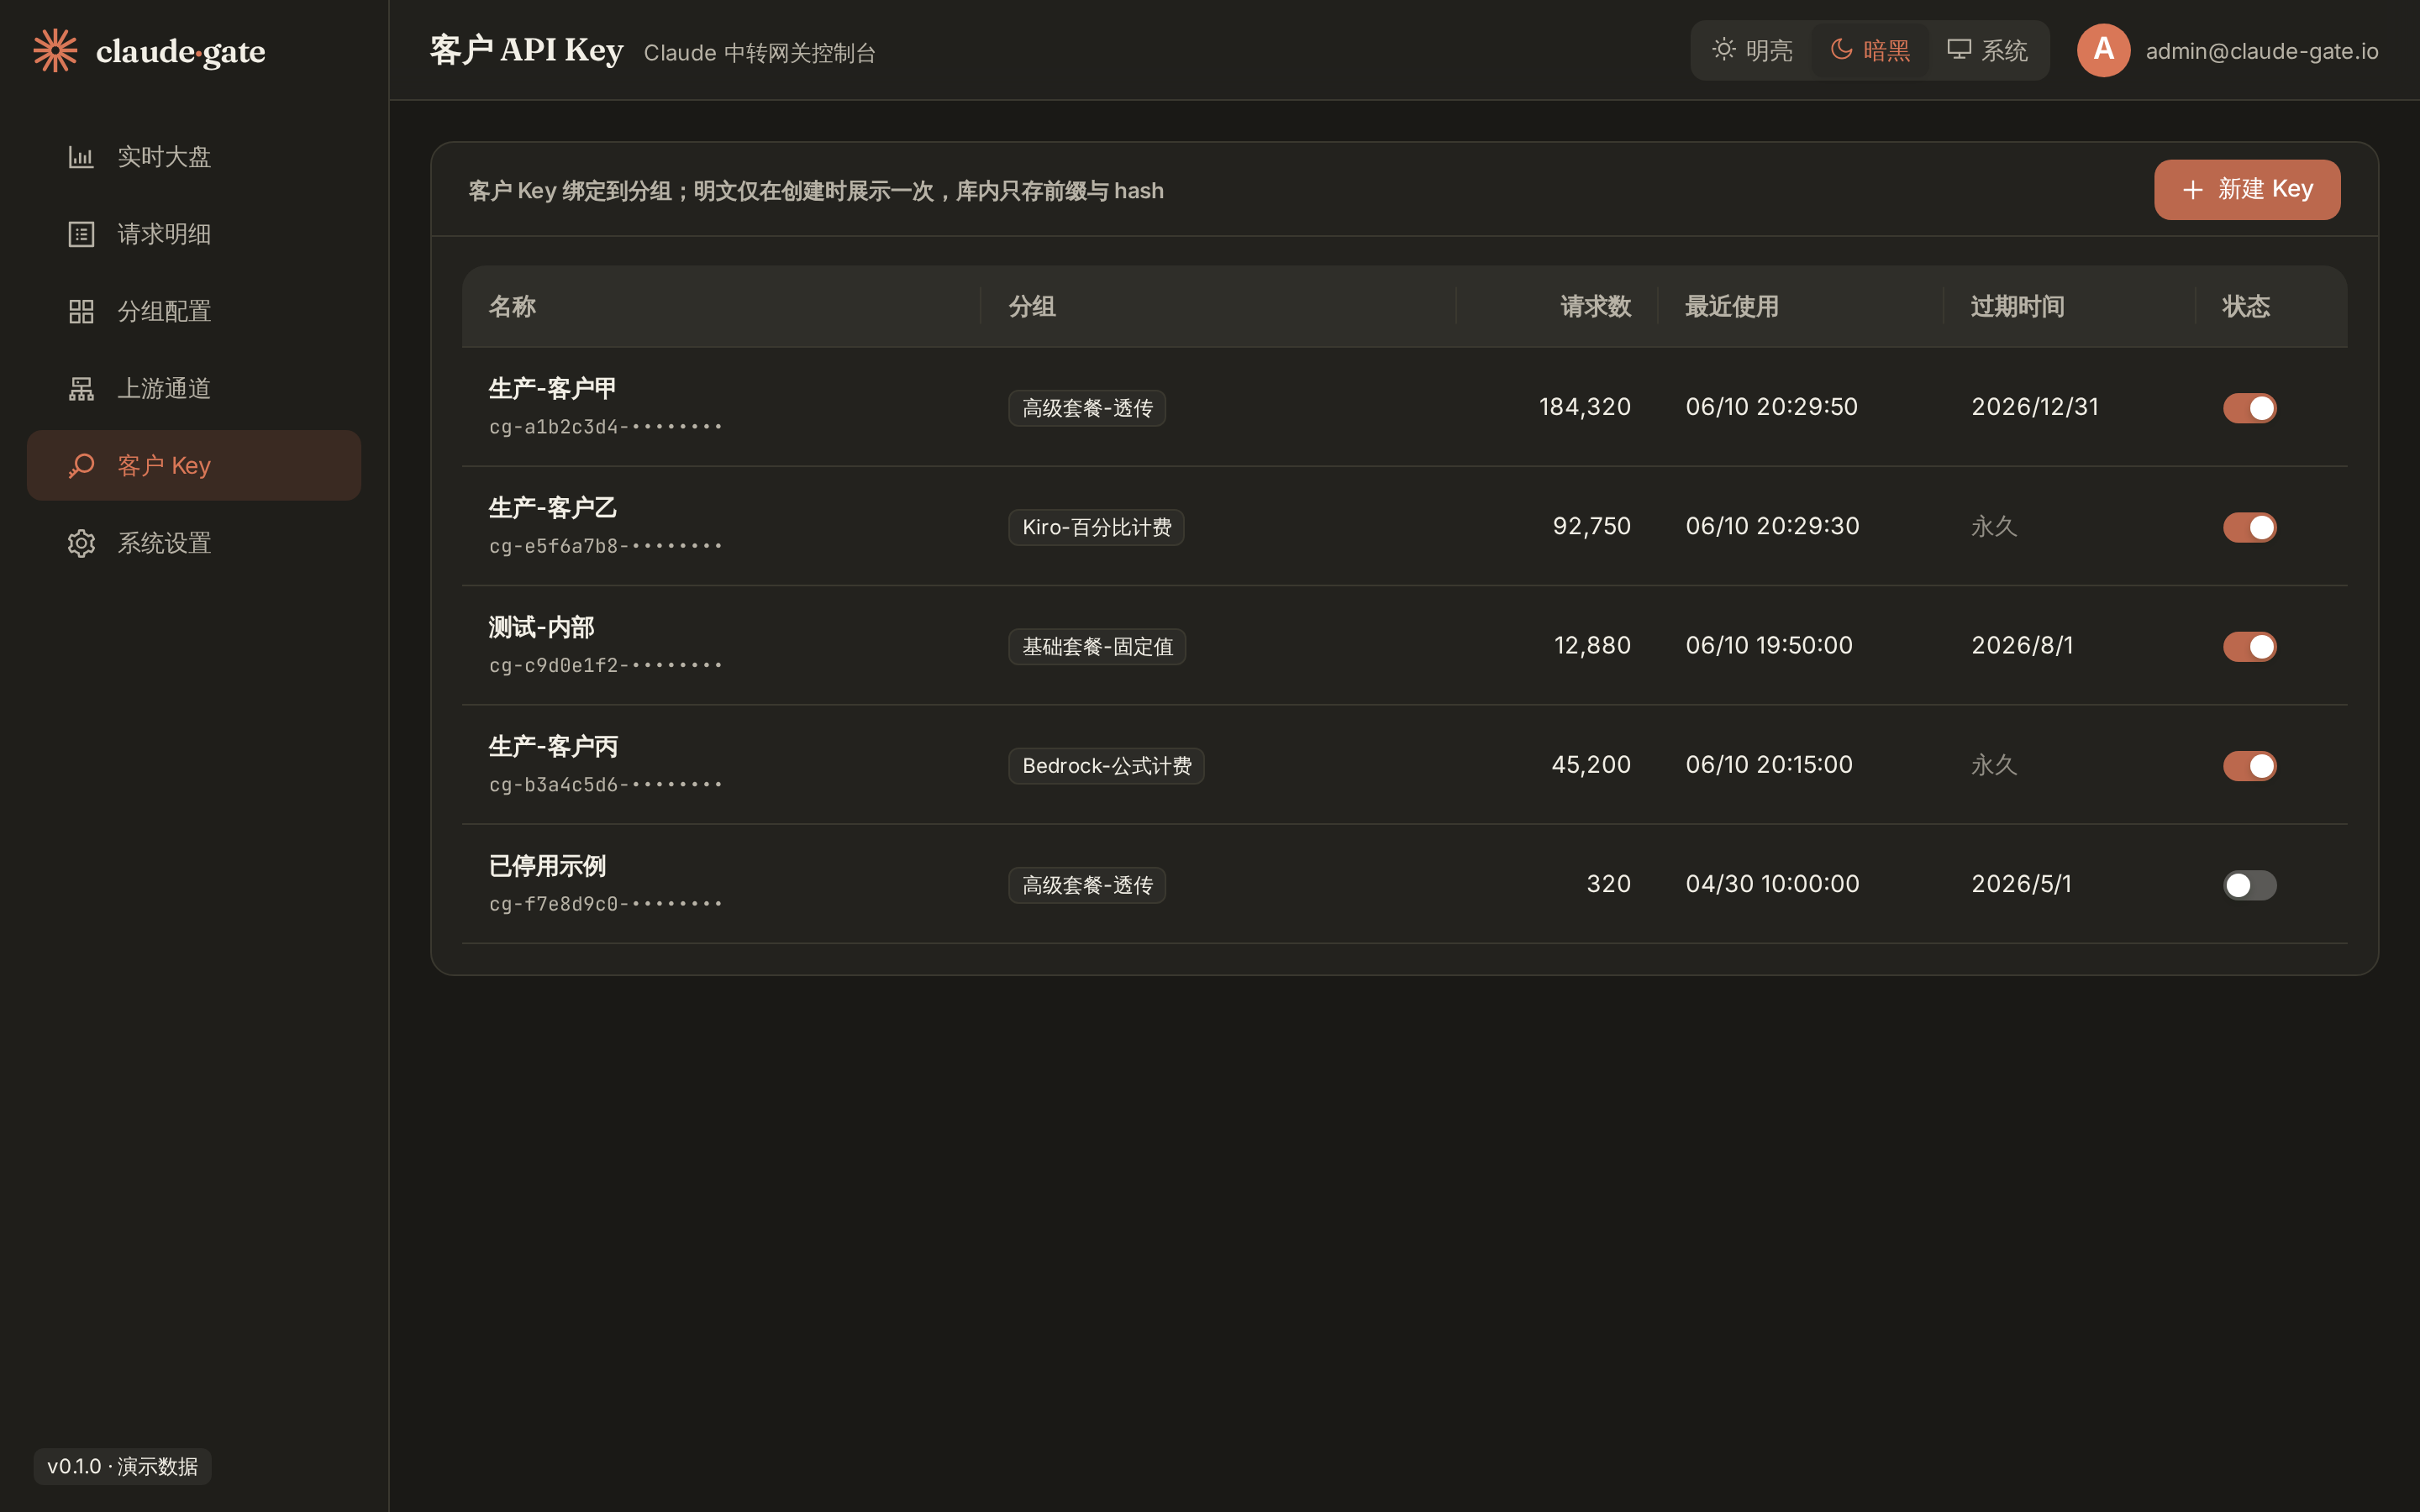
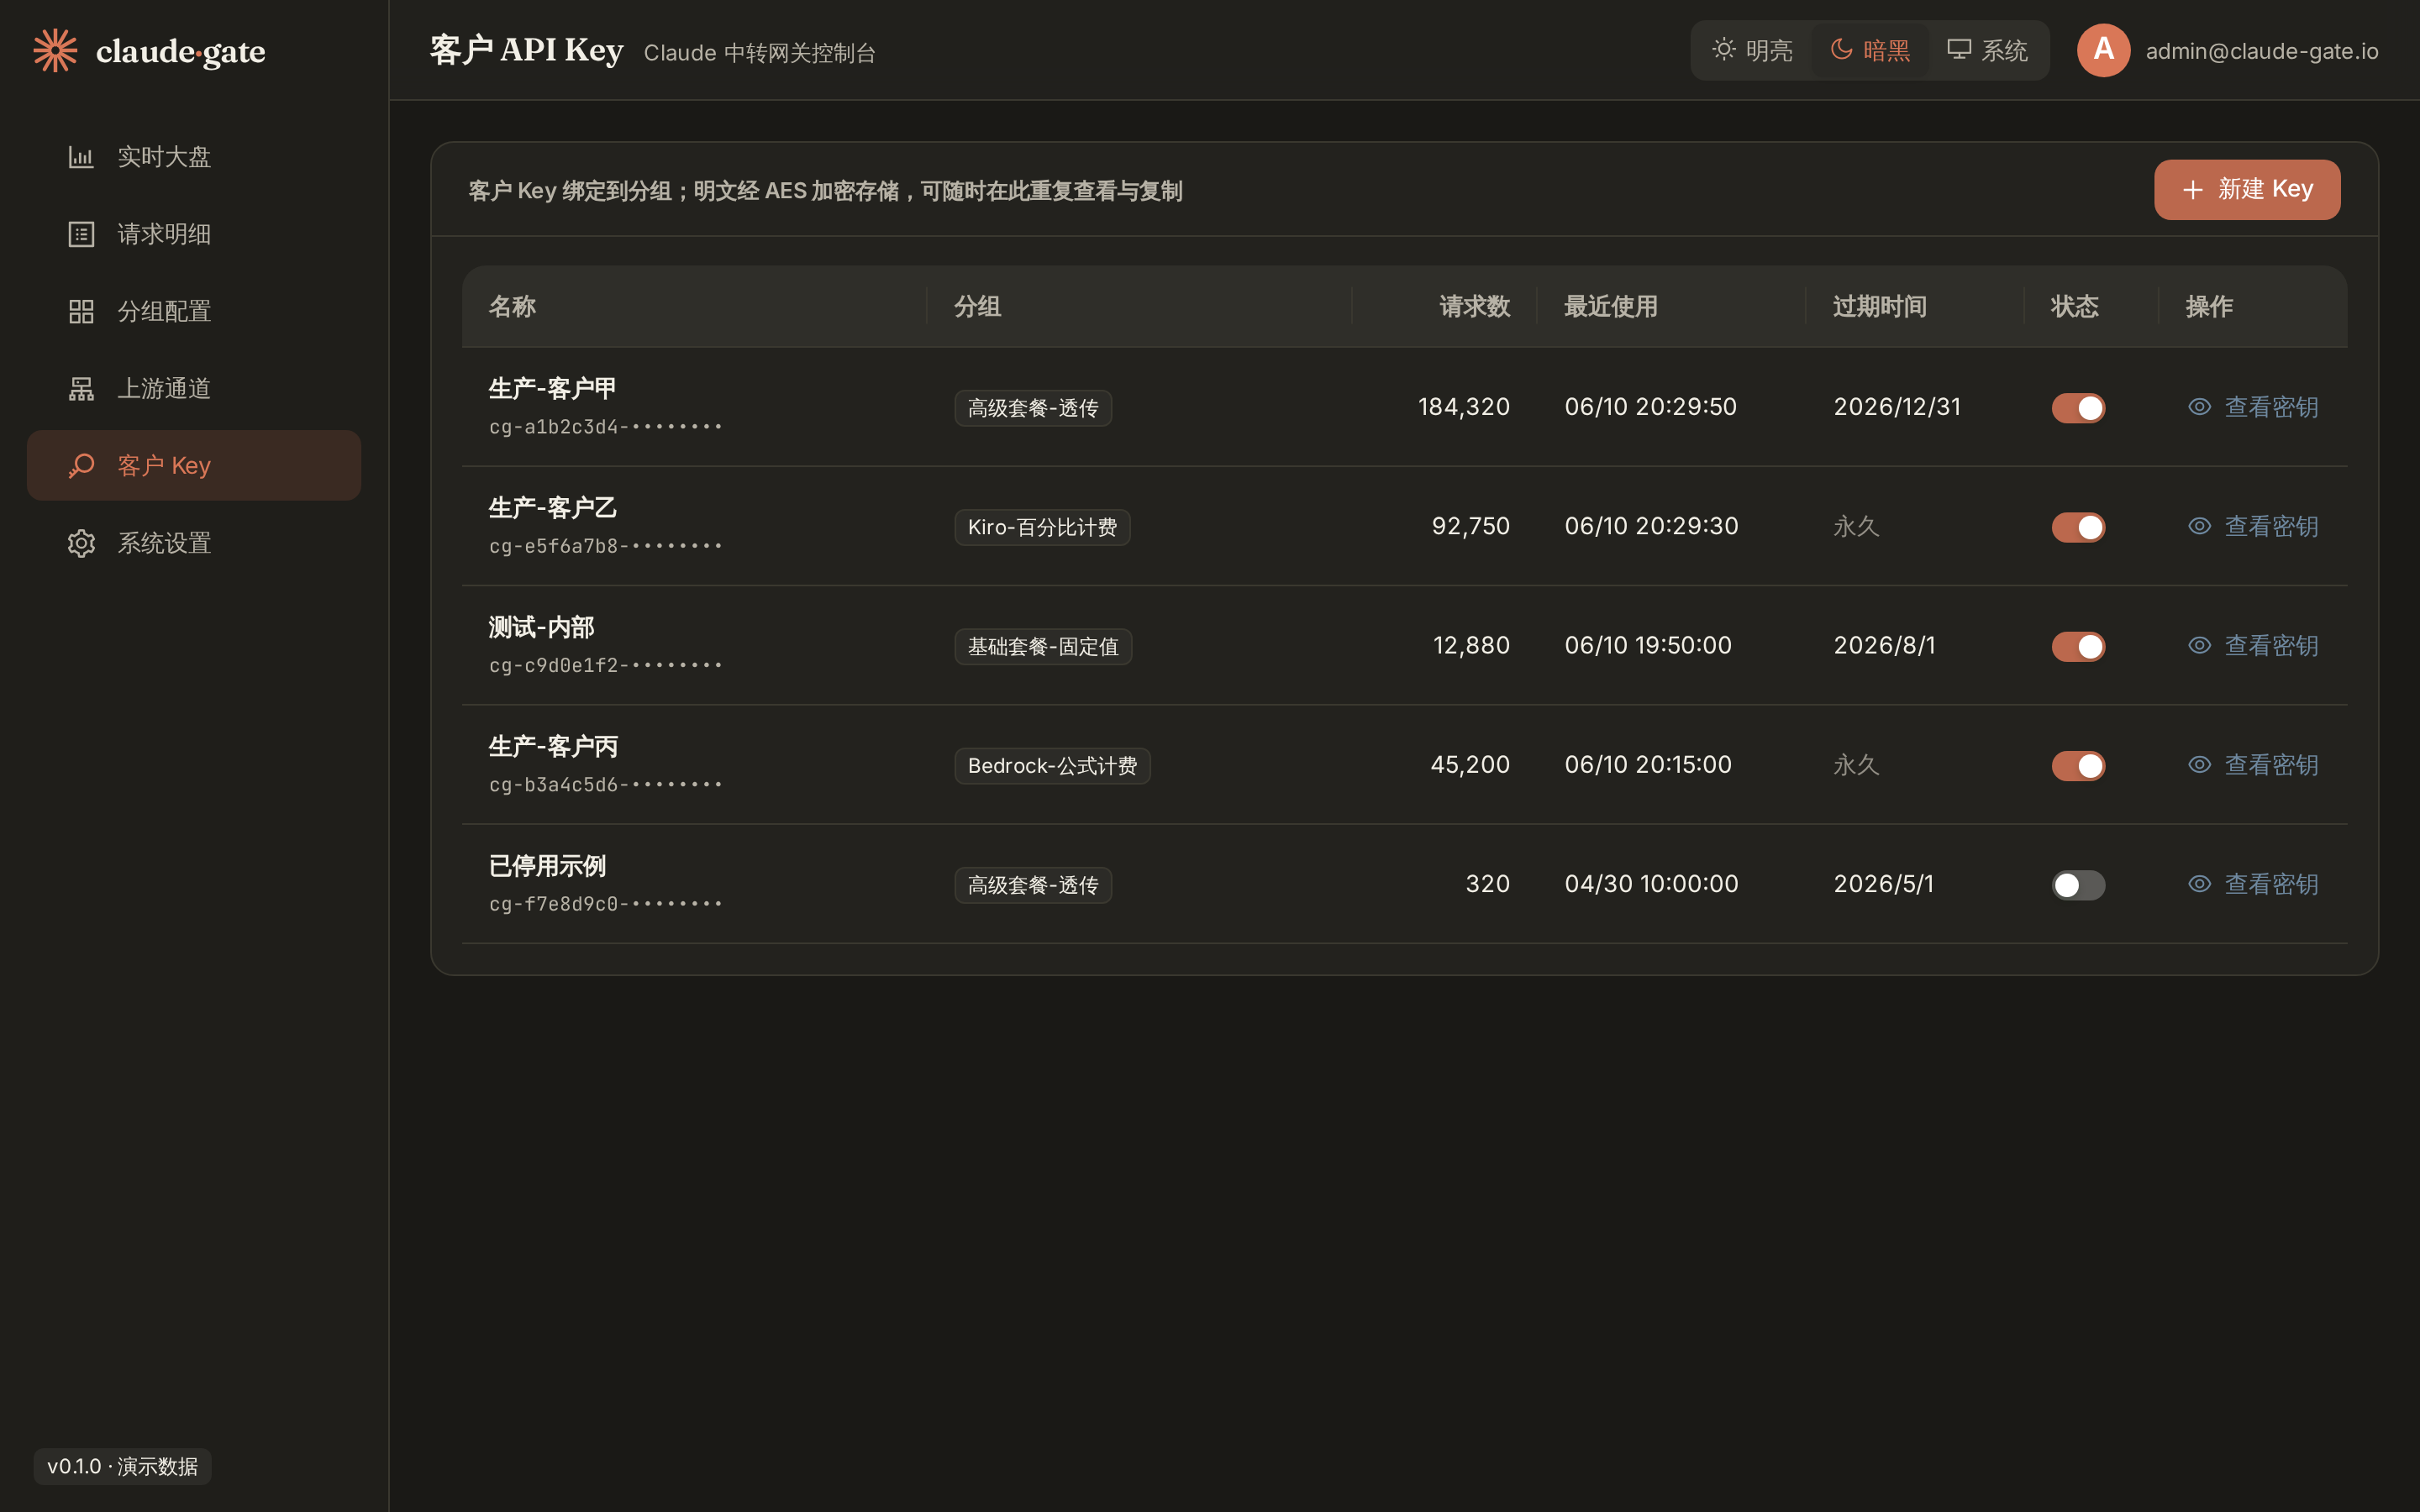
feat: 客户 API Key 支持重复查看（AES-256-GCM 可逆存储）
- auth/crypto.go：AES-256-GCM 加解密 + 单测（round-trip / 错误口令 / 篡改检测）
- domain.APIKey 增加 KeyEncrypted；新增迁移 0002_apikey_encrypted
- config 增加 EncryptionKey（CG_ENCRYPTION_KEY）
- 前端客户 Key 列表新增「查看密钥」操作，弹窗支持打码/显示切换 + 复制
- 热路径仍用 key_hash 校验，不解密、不影响代理性能
- docs/configuration.md 补充重复查看的安全取舍；更新截图

diff --git a/web/src/pages/ApiKeys.tsx b/web/src/pages/ApiKeys.tsx
@@ -1,7 +1,8 @@
-import { App, Button, Card, Form, Input, Modal, Select, Switch, Table, Tag, Typography } from 'antd'
-import { CopyOutlined, KeyOutlined, PlusOutlined } from '@ant-design/icons'
+import { App, Button, Card, Form, Input, Modal, Select, Space, Switch, Table, Tag, Typography } from 'antd'
+import { CopyOutlined, EyeInvisibleOutlined, EyeOutlined, KeyOutlined, PlusOutlined } from '@ant-design/icons'
 import { useState } from 'react'
 import { useApiKeys, useGroups } from '../api/queries'
+import { api } from '../api/mock'
 import type { ApiKey } from '../api/types'
 import { fmtDateTime, fmtInt } from '../utils/format'
 
@@ -10,12 +11,38 @@ function genDemoKey() {
   return `cg-${hex(8)}-${hex(48)}`
 }
 
+/** 把完整 Key 打码：保留 cg- 与前缀，其余以圆点替代。 */
+function maskKey(prefix: string) {
+  return `cg-${prefix}-${'•'.repeat(24)}`
+}
+
 export function ApiKeys() {
   const { message } = App.useApp()
   const apiKeys = useApiKeys()
   const groups = useGroups()
   const [open, setOpen] = useState(false)
   const [created, setCreated] = useState<string | null>(null)
+
+  // 重复查看密钥的状态
+  const [revealing, setRevealing] = useState<ApiKey | null>(null)
+  const [revealed, setRevealed] = useState<string | null>(null)
+  const [showSecret, setShowSecret] = useState(false)
+  const [revealLoading, setRevealLoading] = useState(false)
+
+  const openReveal = async (k: ApiKey) => {
+    setRevealing(k)
+    setRevealed(null)
+    setShowSecret(false)
+    setRevealLoading(true)
+    try {
+      const full = await api.revealApiKey(k.id)
+      setRevealed(full)
+    } catch {
+      message.error('获取密钥失败')
+    } finally {
+      setRevealLoading(false)
+    }
+  }
 
   const columns = [
     {
@@ -29,25 +56,38 @@ export function ApiKeys() {
       ),
     },
     { title: '分组', dataIndex: 'group_name', render: (v: string) => <Tag>{v}</Tag> },
-    { title: '请求数', dataIndex: 'request_count', width: 120, align: 'right' as const, render: (v: number) => fmtInt(v) },
-    { title: '最近使用', dataIndex: 'last_used_at', width: 170, render: (v?: string | null) => (v ? fmtDateTime(v) : '—') },
-    { title: '过期时间', dataIndex: 'expires_at', width: 150, render: (v?: string | null) => (v ? new Date(v).toLocaleDateString('zh-CN') : <span style={{ color: 'var(--cg-text-tertiary,#928e85)' }}>永久</span>) },
-    { title: '状态', dataIndex: 'enabled', width: 90, render: (v: boolean) => <Switch checked={v} size="small" /> },
+    { title: '请求数', dataIndex: 'request_count', width: 110, align: 'right' as const, render: (v: number) => fmtInt(v) },
+    { title: '最近使用', dataIndex: 'last_used_at', width: 160, render: (v?: string | null) => (v ? fmtDateTime(v) : '—') },
+    { title: '过期时间', dataIndex: 'expires_at', width: 130, render: (v?: string | null) => (v ? new Date(v).toLocaleDateString('zh-CN') : <span style={{ color: 'var(--cg-text-tertiary,#928e85)' }}>永久</span>) },
+    { title: '状态', dataIndex: 'enabled', width: 80, render: (v: boolean) => <Switch checked={v} size="small" /> },
+    {
+      title: '操作',
+      key: 'action',
+      width: 100,
+      render: (_: unknown, k: ApiKey) => (
+        <Button type="link" size="small" icon={<EyeOutlined />} style={{ padding: 0 }} onClick={() => openReveal(k)}>
+          查看密钥
+        </Button>
+      ),
+    },
   ]
 
   const handleCreate = () => {
     setCreated(genDemoKey())
   }
 
+  const displayKey = revealed ? (showSecret ? revealed : revealing ? maskKey(revealing.key_prefix) : '') : ''
+
   return (
     <Card
       className="cg-soft-card"
       styles={{ body: { padding: 18 } }}
-      title={<span style={{ color: 'var(--cg-text-secondary)', fontSize: 13 }}>客户 Key 绑定到分组；明文仅在创建时展示一次，库内只存前缀与 hash</span>}
+      title={<span style={{ color: 'var(--cg-text-secondary)', fontSize: 13 }}>客户 Key 绑定到分组；明文经 AES 加密存储，可随时在此重复查看与复制</span>}
       extra={<Button type="primary" icon={<PlusOutlined />} onClick={() => { setCreated(null); setOpen(true) }}>新建 Key</Button>}
     >
       <Table<ApiKey> rowKey="id" loading={apiKeys.isLoading} columns={columns} dataSource={apiKeys.data ?? []} pagination={false} />
 
+      {/* 新建 Key */}
       <Modal
         title="新建客户 API Key"
         open={open}
@@ -66,13 +106,44 @@ export function ApiKeys() {
           </Form>
         ) : (
           <div>
-            <Typography.Paragraph type="warning"><KeyOutlined /> 请立即复制并妥善保存，此明文只展示这一次：</Typography.Paragraph>
-            <Input.Group compact style={{ display: 'flex' }}>
+            <Typography.Paragraph><KeyOutlined /> 已生成新密钥，可立即复制；之后也可在列表「查看密钥」重复查看：</Typography.Paragraph>
+            <Space.Compact style={{ display: 'flex' }}>
               <Input className="cg-mono" readOnly value={created} />
               <Button icon={<CopyOutlined />} onClick={() => { navigator.clipboard?.writeText(created); message.success('已复制') }}>复制</Button>
-            </Input.Group>
+            </Space.Compact>
           </div>
         )}
+      </Modal>
+
+      {/* 重复查看密钥 */}
+      <Modal
+        title={<Space><KeyOutlined />查看密钥 · {revealing?.name}</Space>}
+        open={!!revealing}
+        onCancel={() => setRevealing(null)}
+        footer={[<Button key="close" onClick={() => setRevealing(null)}>关闭</Button>]}
+        destroyOnClose
+      >
+        <Typography.Paragraph style={{ color: 'var(--cg-text-secondary)', fontSize: 13 }}>
+          完整明文由后台 AES-256-GCM 解密获得，可随时重复查看。请勿在不安全场合展示。
+        </Typography.Paragraph>
+        <Space.Compact style={{ display: 'flex' }}>
+          <Input className="cg-mono" readOnly value={displayKey} placeholder={revealLoading ? '解密中…' : ''} />
+          <Button
+            icon={showSecret ? <EyeInvisibleOutlined /> : <EyeOutlined />}
+            onClick={() => setShowSecret((s) => !s)}
+            disabled={!revealed}
+          >
+            {showSecret ? '隐藏' : '显示'}
+          </Button>
+          <Button
+            type="primary"
+            icon={<CopyOutlined />}
+            disabled={!revealed}
+            onClick={() => { if (revealed) { navigator.clipboard?.writeText(revealed); message.success('已复制完整密钥') } }}
+          >
+            复制
+          </Button>
+        </Space.Compact>
       </Modal>
     </Card>
   )

diff --git a/web/src/api/mock.ts b/web/src/api/mock.ts
@@ -326,6 +326,17 @@ export function buildTimeseries(w: TimeWindow, metric: string): TimeseriesPoint[
   return out
 }
 
+// 演示用：从前缀确定性派生完整 Key 明文（真实环境为后台 AES 解密后的明文）。
+function fullKeyFor(prefix: string): string {
+  let h = 2166136261
+  const out: string[] = []
+  for (let i = 0; i < 48; i++) {
+    h = (Math.imul(h ^ (prefix.charCodeAt(i % prefix.length) + i * 7), 16777619)) >>> 0
+    out.push('0123456789abcdef'[h & 15])
+  }
+  return `cg-${prefix}-${out.join('')}`
+}
+
 export const api = {
   async overview(): Promise<StatsOverview> {
     await delay()
@@ -374,6 +385,14 @@ export const api = {
   async apiKeys(): Promise<ApiKey[]> {
     await delay()
     return apiKeys
+  },
+  // 重复查看客户 Key 明文（真实环境对应 GET /api/admin/api-keys/:id/reveal，
+  // 后台用 CG_ENCRYPTION_KEY 解密 key_encrypted，建议配合操作审计）。
+  async revealApiKey(id: number): Promise<string> {
+    await delay(200)
+    const k = apiKeys.find((x) => x.id === id)
+    if (!k) throw new Error('Key 不存在')
+    return fullKeyFor(k.key_prefix)
   },
   async modelMappings(): Promise<ModelMapping[]> {
     await delay(160)

diff --git a/internal/auth/crypto.go b/internal/auth/crypto.go
@@ -1,0 +1,76 @@
+package auth
+
+import (
+	"crypto/aes"
+	"crypto/cipher"
+	"crypto/rand"
+	"crypto/sha256"
+	"encoding/base64"
+	"fmt"
+	"io"
+)
+
+// 本文件提供 AES-256-GCM 的对称加解密，用于把"需要重复查看"的密文
+// （客户 API Key 明文、上游凭证等）可逆地存库。
+//
+// 设计取舍：客户 API Key 默认只存 key_hash（不可逆），用于热路径校验；
+// 但中转站运营场景常需运营者事后重新查看/分发 Key，因此额外存一份
+// AES-256-GCM 加密的明文（key_encrypted），仅管理后台解密展示。
+// 这是面向中转站产品的有意取舍，加密密钥经 CG_ENCRYPTION_KEY 配置（见 docs）。
+
+// deriveKey 把任意口令派生为 32 字节 AES-256 密钥。
+func deriveKey(secret string) [32]byte {
+	return sha256.Sum256([]byte(secret))
+}
+
+// Encrypt 用口令对明文做 AES-256-GCM 加密，返回 base64(nonce|ciphertext)。
+func Encrypt(plaintext, secret string) (string, error) {
+	if secret == "" {
+		return "", fmt.Errorf("加密口令为空")
+	}
+	key := deriveKey(secret)
+	block, err := aes.NewCipher(key[:])
+	if err != nil {
+		return "", err
+	}
+	gcm, err := cipher.NewGCM(block)
+	if err != nil {
+		return "", err
+	}
+	nonce := make([]byte, gcm.NonceSize())
+	if _, err := io.ReadFull(rand.Reader, nonce); err != nil {
+		return "", err
+	}
+	// Seal 把密文追加在 nonce 之后，便于解密时切分
+	sealed := gcm.Seal(nonce, nonce, []byte(plaintext), nil)
+	return base64.StdEncoding.EncodeToString(sealed), nil
+}
+
+// Decrypt 解密 Encrypt 的输出，口令不匹配或密文被篡改时返回错误。
+func Decrypt(ciphertext, secret string) (string, error) {
+	if secret == "" {
+		return "", fmt.Errorf("加密口令为空")
+	}
+	raw, err := base64.StdEncoding.DecodeString(ciphertext)
+	if err != nil {
+		return "", fmt.Errorf("密文 base64 解码失败: %w", err)
+	}
+	key := deriveKey(secret)
+	block, err := aes.NewCipher(key[:])
+	if err != nil {
+		return "", err
+	}
+	gcm, err := cipher.NewGCM(block)
+	if err != nil {
+		return "", err
+	}
+	if len(raw) < gcm.NonceSize() {
+		return "", fmt.Errorf("密文长度不足")
+	}
+	nonce, body := raw[:gcm.NonceSize()], raw[gcm.NonceSize():]
+	plain, err := gcm.Open(nil, nonce, body, nil)
+	if err != nil {
+		return "", fmt.Errorf("解密失败（口令错误或密文被篡改）: %w", err)
+	}
+	return string(plain), nil
+}

diff --git a/internal/auth/crypto_test.go b/internal/auth/crypto_test.go
@@ -1,0 +1,67 @@
+package auth
+
+import "testing"
+
+func TestEncryptDecryptRoundTrip(t *testing.T) {
+	secret := "test-encryption-passphrase"
+	plain := "cg-a1b2c3d4-3f9ace0011223344556677889900aabbccddeeff"
+	ct, err := Encrypt(plain, secret)
+	if err != nil {
+		t.Fatal(err)
+	}
+	if ct == plain {
+		t.Fatal("密文不应等于明文")
+	}
+	got, err := Decrypt(ct, secret)
+	if err != nil {
+		t.Fatal(err)
+	}
+	if got != plain {
+		t.Fatalf("解密结果 = %q, 期望 %q", got, plain)
+	}
+}
+
+func TestEncryptNonceRandomized(t *testing.T) {
+	// 相同明文两次加密应得到不同密文（nonce 随机）
+	a, _ := Encrypt("same", "k")
+	b, _ := Encrypt("same", "k")
+	if a == b {
+		t.Fatal("两次加密应因随机 nonce 而不同")
+	}
+}
+
+func TestDecryptWrongKeyFails(t *testing.T) {
+	ct, _ := Encrypt("secret-value", "right-key")
+	if _, err := Decrypt(ct, "wrong-key"); err == nil {
+		t.Fatal("错误口令应解密失败")
+	}
+}
+
+func TestDecryptTamperFails(t *testing.T) {
+	ct, _ := Encrypt("secret-value", "k")
+	// 篡改最后一个字符
+	tampered := ct[:len(ct)-1]
+	if tampered[len(tampered)-1] == 'A' {
+		tampered += "B"
+	} else {
+		tampered += "A"
+	}
+	if _, err := Decrypt(tampered, "k"); err == nil {
+		t.Fatal("被篡改的密文应解密失败")
+	}
+}
+
+func TestEncryptEmptySecret(t *testing.T) {
+	if _, err := Encrypt("x", ""); err == nil {
+		t.Fatal("空口令应返回错误")
+	}
+	if _, err := Decrypt("x", ""); err == nil {
+		t.Fatal("空口令应返回错误")
+	}
+}
+
+func TestDecryptInvalidBase64(t *testing.T) {
+	if _, err := Decrypt("!!!not-base64!!!", "k"); err == nil {
+		t.Fatal("非法 base64 应返回错误")
+	}
+}

diff --git a/internal/domain/models.go b/internal/domain/models.go
@@ -99,16 +99,22 @@ type Group struct {
 	UpdatedAt         time.Time           `json:"updated_at"`
 }
 
-// APIKey 客户 API Key。明文仅在创建时返回一次，库中只存前缀与 hash。
+// APIKey 客户 API Key。
+//
+// 存两份密文：
+//   - KeyHash：不可逆 hash，用于热路径校验（见 auth.VerifySecret）；
+//   - KeyEncrypted：AES-256-GCM 可逆密文，仅供管理后台"重复查看"明文时解密
+//     （中转站运营常需事后重看/分发 Key，是面向该产品的有意取舍，见 internal/auth/crypto.go）。
 type APIKey struct {
-	ID        int64      `json:"id"`
-	KeyPrefix string     `json:"key_prefix"`
-	KeyHash   string     `json:"-"`
-	Name      string     `json:"name"`
-	GroupID   int64      `json:"group_id"`
-	Enabled   bool       `json:"enabled"`
-	ExpiresAt *time.Time `json:"expires_at,omitempty"`
-	CreatedAt time.Time  `json:"created_at"`
+	ID           int64      `json:"id"`
+	KeyPrefix    string     `json:"key_prefix"`
+	KeyHash      string     `json:"-"`
+	KeyEncrypted string     `json:"-"`
+	Name         string     `json:"name"`
+	GroupID      int64      `json:"group_id"`
+	Enabled      bool       `json:"enabled"`
+	ExpiresAt    *time.Time `json:"expires_at,omitempty"`
+	CreatedAt    time.Time  `json:"created_at"`
 }
 
 // ModelMapping 模型别名映射。

diff --git a/internal/config/config.go b/internal/config/config.go
@@ -78,6 +78,9 @@ type AuthConfig struct {
 	JWTSecret     string `yaml:"jwt_secret"`
 	JWTTTLMinutes int    `yaml:"jwt_ttl_minutes"`
 	APIKeyTTLSec  int    `yaml:"apikey_cache_ttl_seconds"` // API Key → Group 缓存秒数，默认 60
+	// EncryptionKey 对称加密口令，用于可逆存储客户 API Key 明文与上游凭证，
+	// 支持管理后台"重复查看"客户 Key（见 internal/auth/crypto.go）。生产必须配置。
+	EncryptionKey string `yaml:"encryption_key"`
 }
 
 // LogConfig 日志配置。
@@ -149,6 +152,9 @@ func applyEnv(cfg *Config) {
 	}
 	if v := os.Getenv("CG_JWT_SECRET"); v != "" {
 		cfg.Auth.JWTSecret = v
+	}
+	if v := os.Getenv("CG_ENCRYPTION_KEY"); v != "" {
+		cfg.Auth.EncryptionKey = v
 	}
 	if v := os.Getenv("CG_LOG_LEVEL"); v != "" {
 		cfg.Log.Level = strings.ToLower(v)

diff --git a/CHANGELOG.md b/CHANGELOG.md
@@ -2,6 +2,17 @@
 
 本项目遵循约定式提交（Conventional Commits）。
 
+## [未发布]
+
+### 新增
+
+- **客户 API Key 支持重复查看**：明文经 AES-256-GCM 可逆加密存储（`api_keys.key_encrypted`），
+  管理后台可随时「查看密钥」并复制，热路径仍用 `key_hash` 校验不受影响。
+  - 后端：`internal/auth/crypto.go`（AES-256-GCM 加解密 + 单测）、新增迁移 `0002_apikey_encrypted`、
+    配置项 `CG_ENCRYPTION_KEY`
+  - 前端：客户 Key 列表新增「查看密钥」操作，弹窗支持打码/显示切换与复制
+  - 文档：`docs/configuration.md` 补充重复查看的安全取舍说明
+
 ## [0.1.0] - 2026-06-10
 
 首个里程碑：骨架 + 核心逻辑 + 完整前端控制台。